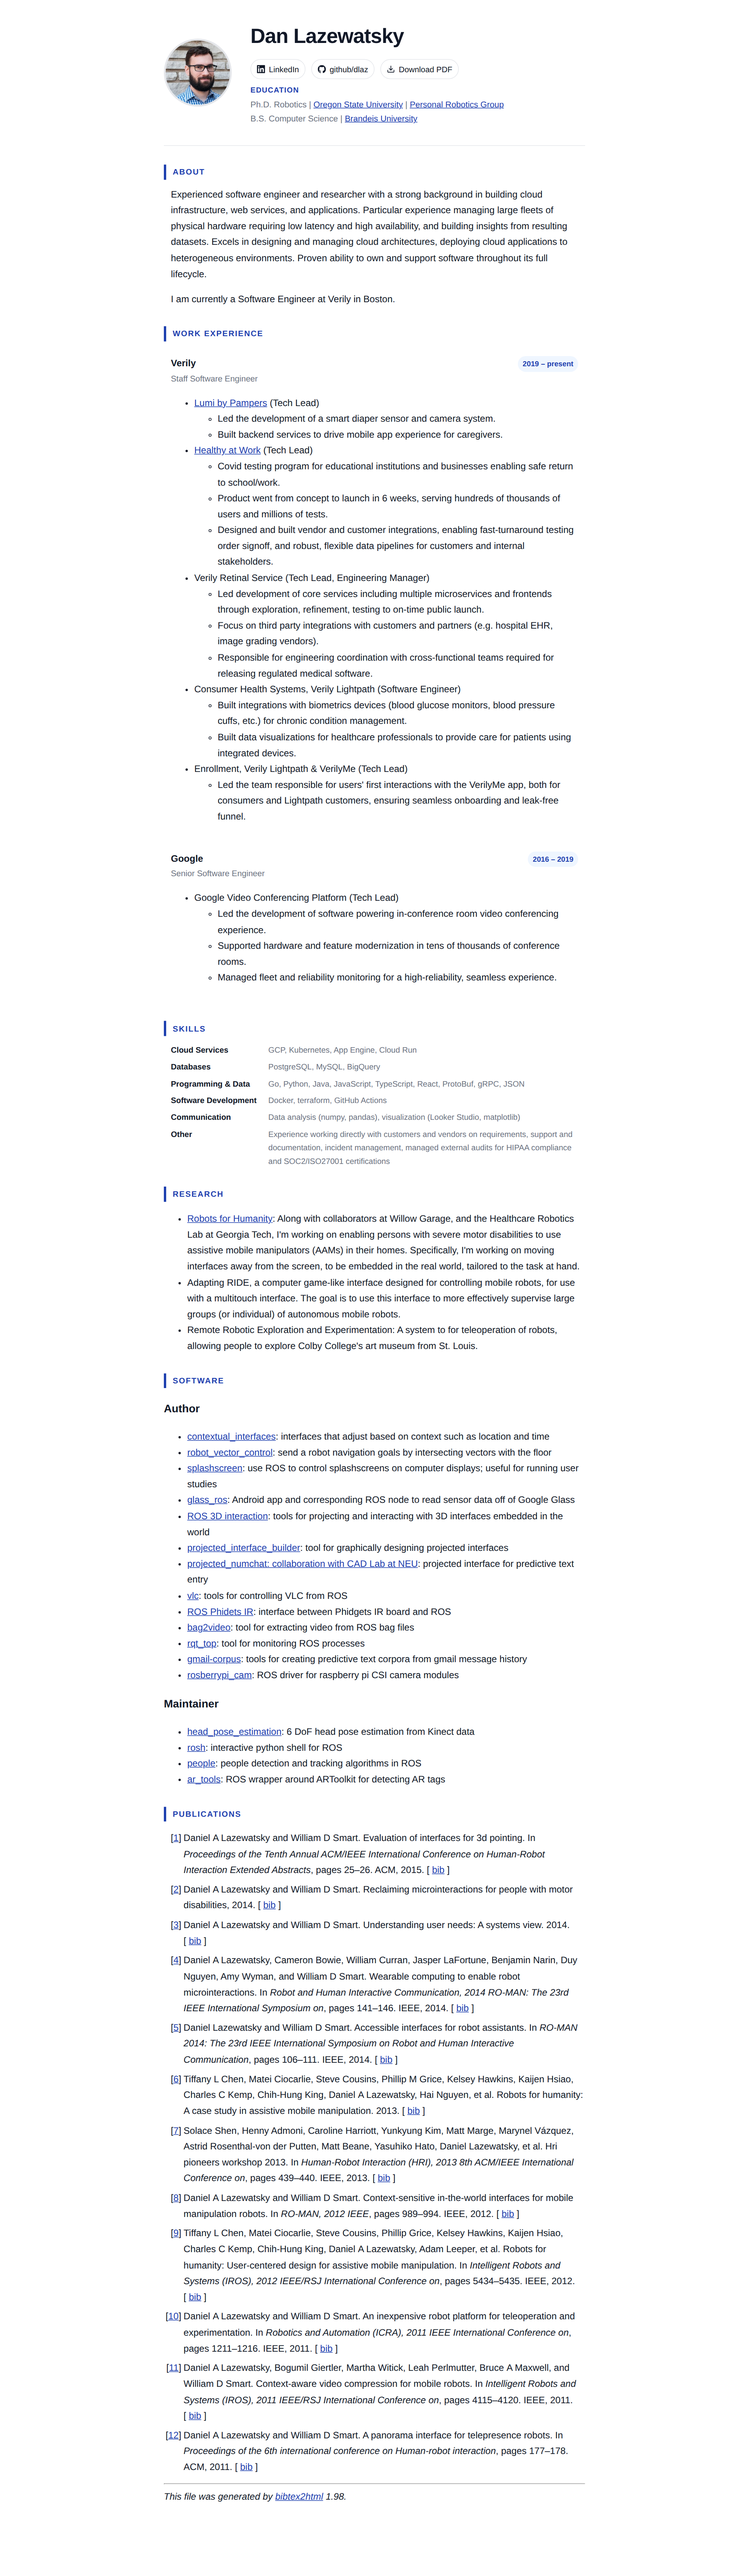
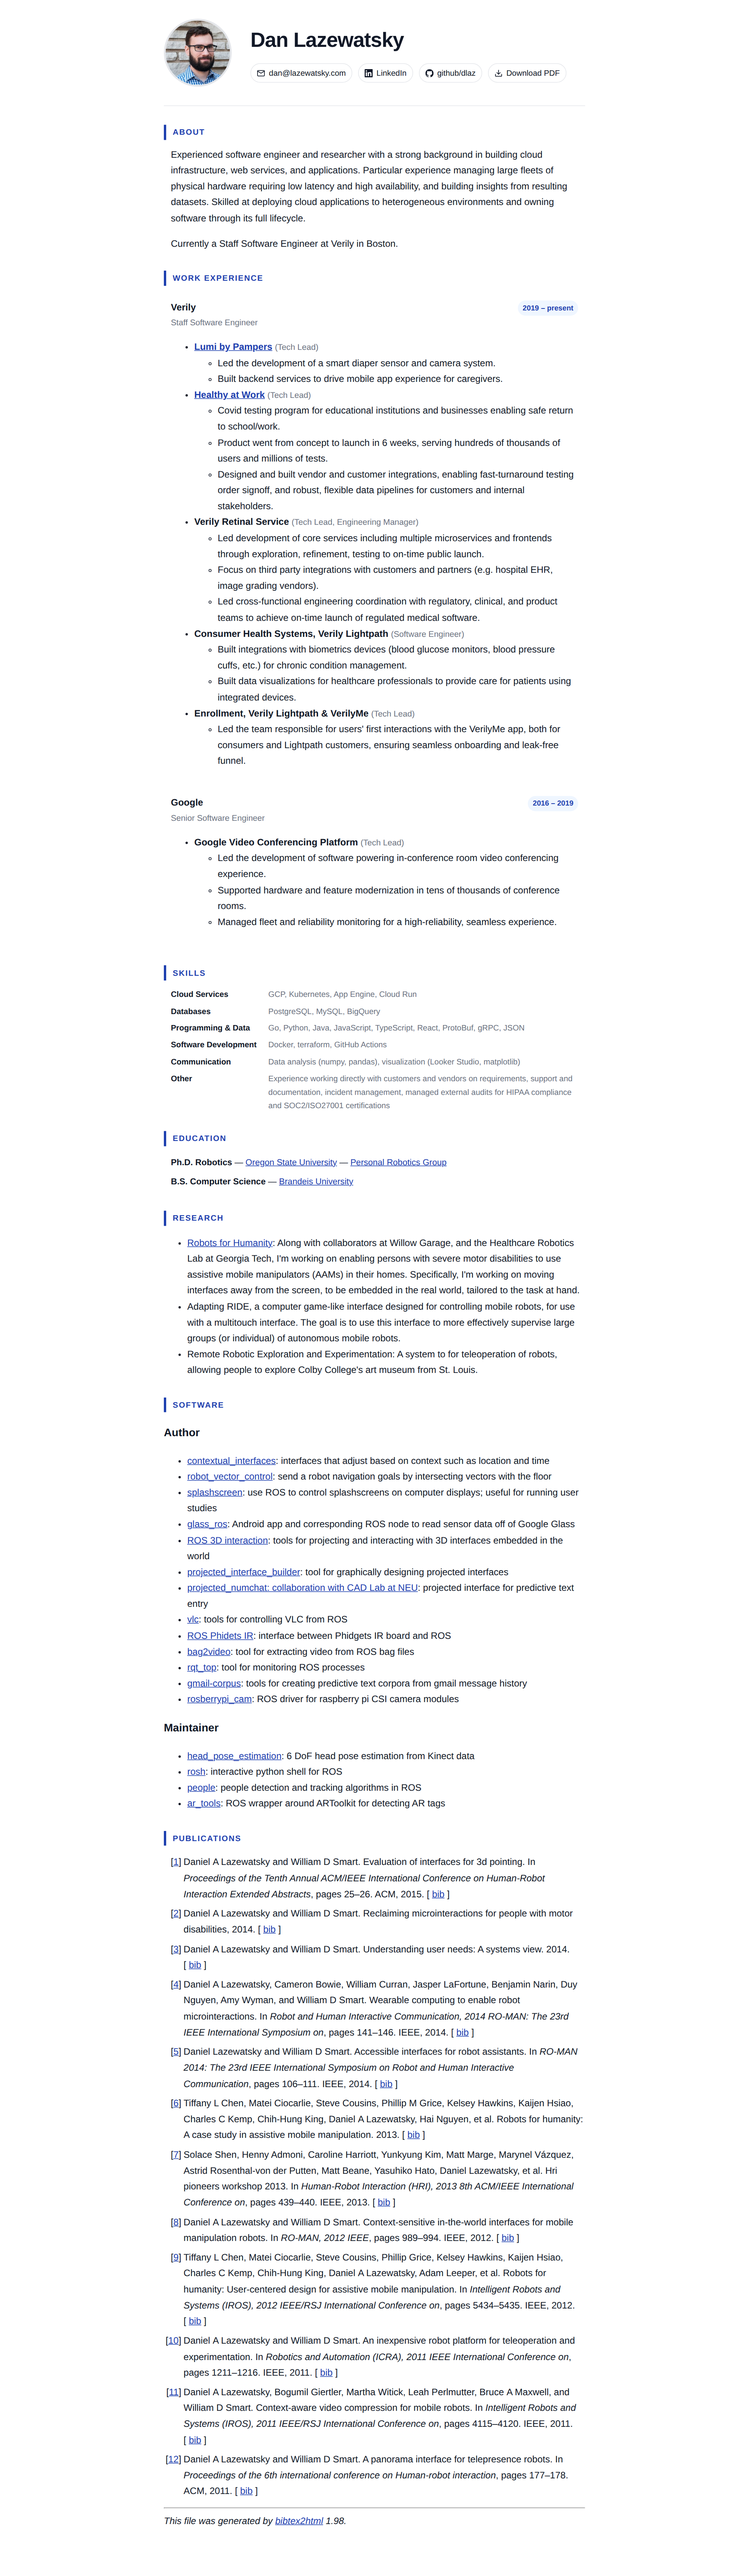
Reorder resume sections, add email, improve content
Agent-Logs-Url: https://github.com/dlaz/dlaz.github.com/sessions/084537bb-daf3-4019-9678-749408b0bfb4

Changed region(s): [[0.2188, 0.0, 0.7812, 0.9676]]

diff --git a/index.html b/index.html
@@ -51,6 +51,14 @@
       <h1>Dan Lazewatsky</h1>
       <div class="contact-chips">
 
+        <a href="mailto:dan@lazewatsky.com" class="chip" target="_blank" rel="noopener noreferrer">
+          <svg xmlns="http://www.w3.org/2000/svg" width="14" height="14" viewBox="0 0 24 24" fill="none" stroke="currentColor" stroke-width="2" stroke-linecap="round" stroke-linejoin="round" aria-hidden="true">
+            <path d="M4 4h16c1.1 0 2 .9 2 2v12c0 1.1-.9 2-2 2H4c-1.1 0-2-.9-2-2V6c0-1.1.9-2 2-2z"/>
+            <polyline points="22,6 12,12 2,6"/>
+          </svg>
+          dan@lazewatsky.com
+        </a>
+
         <a href="https://www.linkedin.com/in/danlazewatsky/" class="chip" target="_blank" rel="noopener noreferrer">
           <svg xmlns="http://www.w3.org/2000/svg" width="14" height="14" viewBox="0 0 24 24" fill="currentColor" aria-hidden="true">
             <path d="M20.447 20.452h-3.554v-5.569c0-1.328-.027-3.037-1.852-3.037-1.853 0-2.136 1.445-2.136 2.939v5.667H9.351V9h3.414v1.561h.046c.477-.9 1.637-1.85 3.37-1.85 3.601 0 4.267 2.37 4.267 5.455v6.286zM5.337 7.433a2.062 2.062 0 01-2.063-2.065 2.064 2.064 0 112.063 2.065zm1.782 13.019H3.555V9h3.564v11.452zM22.225 0H1.771C.792 0 0 .774 0 1.729v20.542C0 23.227.792 24 1.771 24h20.451C23.2 24 24 23.227 24 22.271V1.729C24 .774 23.2 0 22.222 0h.003z"/>
@@ -74,30 +82,15 @@
           Download PDF
         </a>
       </div>
-      <ul id="basicinfo">
-        <li>
-          <div class="colored">Education</div>
-          <ul>
-
-            <li>
-              Ph.D. Robotics | <a href="https://www.oregonstate.edu">Oregon State University</a> | <a href="https://research.engr.oregonstate.edu/prg/">Personal Robotics Group</a>
-            </li>
-
-            <li>
-              B.S. Computer Science | <a href="https://www.brandeis.edu">Brandeis University</a>
-            </li>
-
-          </ul>
-        </li>
-      </ul>
     </div>
   </div>
+
   <h2>About</h2>
   <div class="section">
 
-    <p>Experienced software engineer and researcher with a strong background in building cloud infrastructure, web services, and applications. Particular experience managing large fleets of physical hardware requiring low latency and high availability, and building insights from resulting datasets. Excels in designing and managing cloud architectures, deploying cloud applications to heterogeneous environments. Proven ability to own and support software throughout its full lifecycle.</p>
+    <p>Experienced software engineer and researcher with a strong background in building cloud infrastructure, web services, and applications. Particular experience managing large fleets of physical hardware requiring low latency and high availability, and building insights from resulting datasets. Skilled at deploying cloud applications to heterogeneous environments and owning software through its full lifecycle.</p>
 
-    <p>I am currently a Software Engineer at Verily in Boston.</p>
+    <p>Currently a Staff Software Engineer at Verily in Boston.</p>
 
   </div>
 
@@ -111,8 +104,8 @@
     <div class="job-role">Staff Software Engineer</div>
     <ul>
 
-      <li>
-<a href="https://web.archive.org/web/20240902050109/https://news.pg.com/news-releases/news-details/2020/Baby-Monitoring-Takes-a-Quantum-Leap-Lumi-by-Pampers-All-in-One-Connected-Baby-Care-System-Unveiled-at-CES-2020/default.aspx" target="_blank" rel="noopener noreferrer">Lumi by Pampers</a> (Tech Lead)
+      <li class="project-item">
+        <span class="project-title"><a href="https://web.archive.org/web/20240902050109/https://news.pg.com/news-releases/news-details/2020/Baby-Monitoring-Takes-a-Quantum-Leap-Lumi-by-Pampers-All-in-One-Connected-Baby-Care-System-Unveiled-at-CES-2020/default.aspx" target="_blank" rel="noopener noreferrer">Lumi by Pampers</a></span> <span class="project-role">(Tech Lead)</span>
         <ul>
 
           <li>Led the development of a smart diaper sensor and camera system.</li>
@@ -122,8 +115,8 @@
         </ul>
       </li>
 
-      <li>
-<a href="https://verily.com/perspectives/verily-launches-healthy-at-work-program-to-support-organizations-in-their-efforts-to-ensure-a-safe-return-to-work-and-school" target="_blank" rel="noopener noreferrer">Healthy at Work</a> (Tech Lead)
+      <li class="project-item">
+        <span class="project-title"><a href="https://verily.com/perspectives/verily-launches-healthy-at-work-program-to-support-organizations-in-their-efforts-to-ensure-a-safe-return-to-work-and-school" target="_blank" rel="noopener noreferrer">Healthy at Work</a></span> <span class="project-role">(Tech Lead)</span>
         <ul>
 
           <li>Covid testing program for educational institutions and businesses enabling safe return to school/work.</li>
@@ -135,21 +128,21 @@
         </ul>
       </li>
 
-      <li>
-Verily Retinal Service (Tech Lead, Engineering Manager)
+      <li class="project-item">
+        <span class="project-title">Verily Retinal Service</span> <span class="project-role">(Tech Lead, Engineering Manager)</span>
         <ul>
 
           <li>Led development of core services including multiple microservices and frontends through exploration, refinement, testing to on-time public launch.</li>
 
           <li>Focus on third party integrations with customers and partners (e.g. hospital EHR, image grading vendors).</li>
 
-          <li>Responsible for engineering coordination with cross-functional teams required for releasing regulated medical software.</li>
+          <li>Led cross-functional engineering coordination with regulatory, clinical, and product teams to achieve on-time launch of regulated medical software.</li>
 
         </ul>
       </li>
 
-      <li>
-Consumer Health Systems, Verily Lightpath (Software Engineer)
+      <li class="project-item">
+        <span class="project-title">Consumer Health Systems, Verily Lightpath</span> <span class="project-role">(Software Engineer)</span>
         <ul>
 
           <li>Built integrations with biometrics devices (blood glucose monitors, blood pressure cuffs, etc.) for chronic condition management.</li>
@@ -159,8 +152,8 @@ Consumer Health Systems, Verily Lightpath (Software Engineer)
         </ul>
       </li>
 
-      <li>
-Enrollment, Verily Lightpath &amp; VerilyMe (Tech Lead)
+      <li class="project-item">
+        <span class="project-title">Enrollment, Verily Lightpath &amp; VerilyMe</span> <span class="project-role">(Tech Lead)</span>
         <ul>
 
           <li>Led the team responsible for users&#39; first interactions with the VerilyMe app, both for consumers and Lightpath customers, ensuring seamless onboarding and leak-free funnel.</li>
@@ -179,8 +172,8 @@ Enrollment, Verily Lightpath &amp; VerilyMe (Tech Lead)
     <div class="job-role">Senior Software Engineer</div>
     <ul>
 
-      <li>
-Google Video Conferencing Platform (Tech Lead)
+      <li class="project-item">
+        <span class="project-title">Google Video Conferencing Platform</span> <span class="project-role">(Tech Lead)</span>
         <ul>
 
           <li>Led the development of software powering in-conference room video conferencing experience.</li>
@@ -227,6 +220,19 @@ Google Video Conferencing Platform (Tech Lead)
     <div class="skills-row">
       <div class="skills-category">Other</div>
       <div class="skills-items">Experience working directly with customers and vendors on requirements, support and documentation, incident management, managed external audits for HIPAA compliance and SOC2/ISO27001 certifications</div>
+    </div>
+
+  </div>
+
+  <h2>Education</h2>
+  <div class="education-list">
+
+    <div class="edu-item">
+      <span class="edu-degree">Ph.D. Robotics</span> &mdash; <a href="https://www.oregonstate.edu">Oregon State University</a> &mdash; <a href="https://research.engr.oregonstate.edu/prg/">Personal Robotics Group</a>
+    </div>
+
+    <div class="edu-item">
+      <span class="edu-degree">B.S. Computer Science</span> &mdash; <a href="https://www.brandeis.edu">Brandeis University</a>
     </div>
 
   </div>

diff --git a/build.js b/build.js
@@ -12,6 +12,10 @@ const resume = JSON.parse(fs.readFileSync(path.join(ROOT, 'resume.json'), 'utf8'
 // ── SVG icons ────────────────────────────────────────────────────────────────
 
 const icons = {
+  email: `<svg xmlns="http://www.w3.org/2000/svg" width="14" height="14" viewBox="0 0 24 24" fill="none" stroke="currentColor" stroke-width="2" stroke-linecap="round" stroke-linejoin="round" aria-hidden="true">
+            <path d="M4 4h16c1.1 0 2 .9 2 2v12c0 1.1-.9 2-2 2H4c-1.1 0-2-.9-2-2V6c0-1.1.9-2 2-2z"/>
+            <polyline points="22,6 12,12 2,6"/>
+          </svg>`,
   linkedin: `<svg xmlns="http://www.w3.org/2000/svg" width="14" height="14" viewBox="0 0 24 24" fill="currentColor" aria-hidden="true">
             <path d="M20.447 20.452h-3.554v-5.569c0-1.328-.027-3.037-1.852-3.037-1.853 0-2.136 1.445-2.136 2.939v5.667H9.351V9h3.414v1.561h.046c.477-.9 1.637-1.85 3.37-1.85 3.601 0 4.267 2.37 4.267 5.455v6.286zM5.337 7.433a2.062 2.062 0 01-2.063-2.065 2.064 2.064 0 112.063 2.065zm1.782 13.019H3.555V9h3.564v11.452zM22.225 0H1.771C.792 0 0 .774 0 1.729v20.542C0 23.227.792 24 1.771 24h20.451C23.2 24 24 23.227 24 22.271V1.729C24 .774 23.2 0 22.222 0h.003z"/>
           </svg>`,

diff --git a/styles.css b/styles.css
@@ -244,6 +244,29 @@ td.bibtexitem {
     padding-bottom: 0.2em;
 }
 
+/* ── Education section ── */
+.education-list {
+    padding: 0 0.75rem;
+}
+.edu-item {
+    padding: 0.3rem 0;
+    font-size: 0.92rem;
+    line-height: 1.6;
+}
+.edu-degree {
+    font-weight: 600;
+    color: var(--text-primary);
+}
+
+/* ── Project items in experience ── */
+.project-title {
+    font-weight: 600;
+}
+.project-role {
+    color: var(--text-muted);
+    font-size: 0.88rem;
+}
+
 /* ── Print / PDF ── */
 @media print {
     body {
@@ -264,6 +287,15 @@ td.bibtexitem {
     .job {
         transition: none;
         break-inside: avoid;
+        page-break-inside: avoid;
+    }
+    .project-item {
+        break-inside: avoid;
+        page-break-inside: avoid;
+    }
+    .edu-item {
+        break-inside: avoid;
+        page-break-inside: avoid;
     }
     .chip {
         transition: none;
